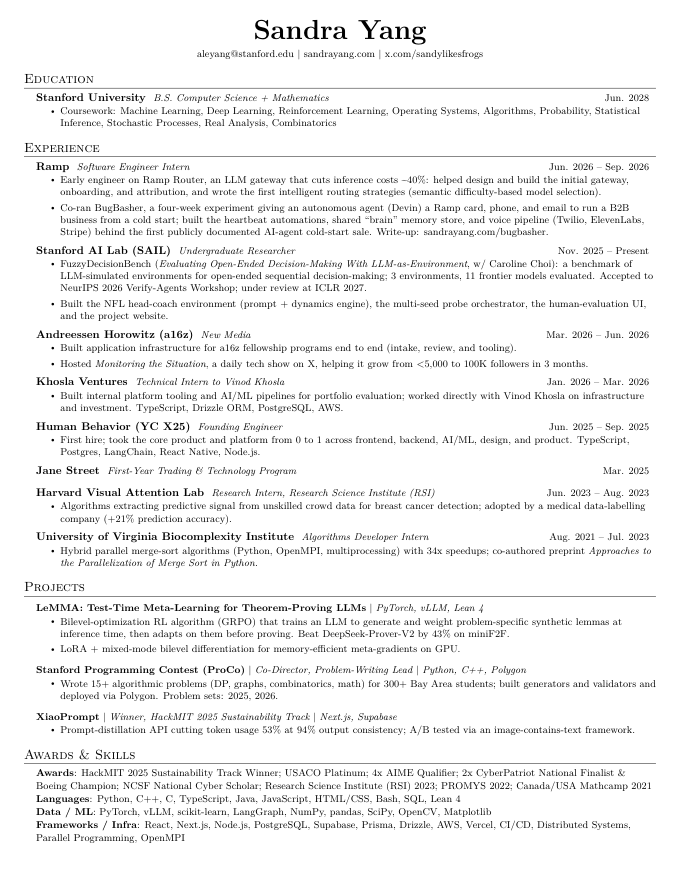
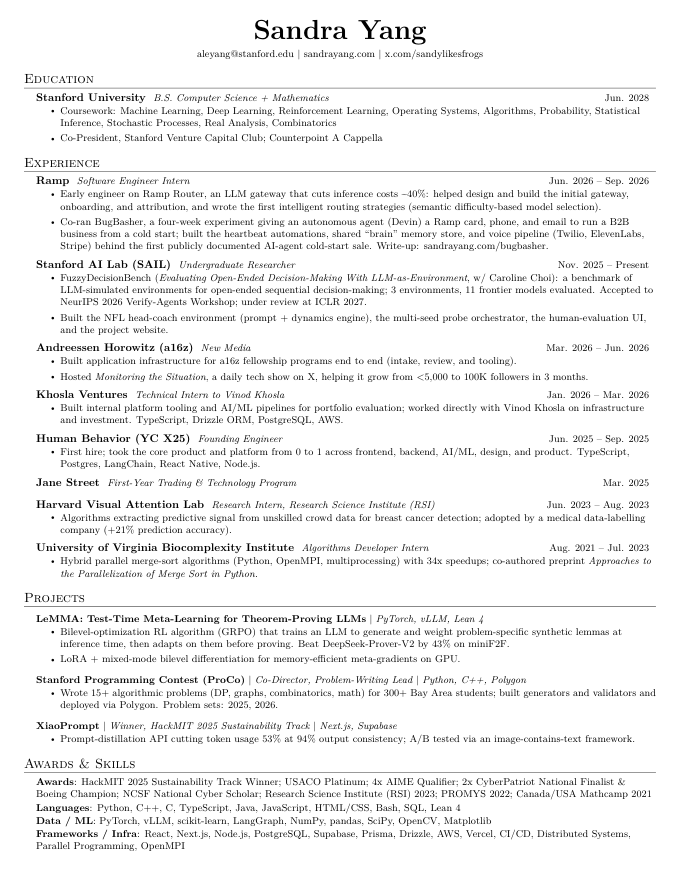
Resume: SVCC co-president, Counterpoint under Stanford

Changed region(s): [[0.0309, 0.1534, 0.9574, 0.9818]]

diff --git a/resume/resume.tex b/resume/resume.tex
@@ -73,6 +73,7 @@
       {Stanford University}{B.S. Computer Science + Mathematics}{Jun. 2028}
       \resumeItemListStart
         \resumeItem{Coursework: Machine Learning, Deep Learning, Reinforcement Learning, Operating Systems, Algorithms, Probability, Statistical Inference, Stochastic Processes, Real Analysis, Combinatorics}
+        \resumeItem{Co-President, \href{https://www.stanfordvc.org}{Stanford Venture Capital Club}; Counterpoint A Cappella}
       \resumeItemListEnd
   \resumeSubHeadingListEnd
 
